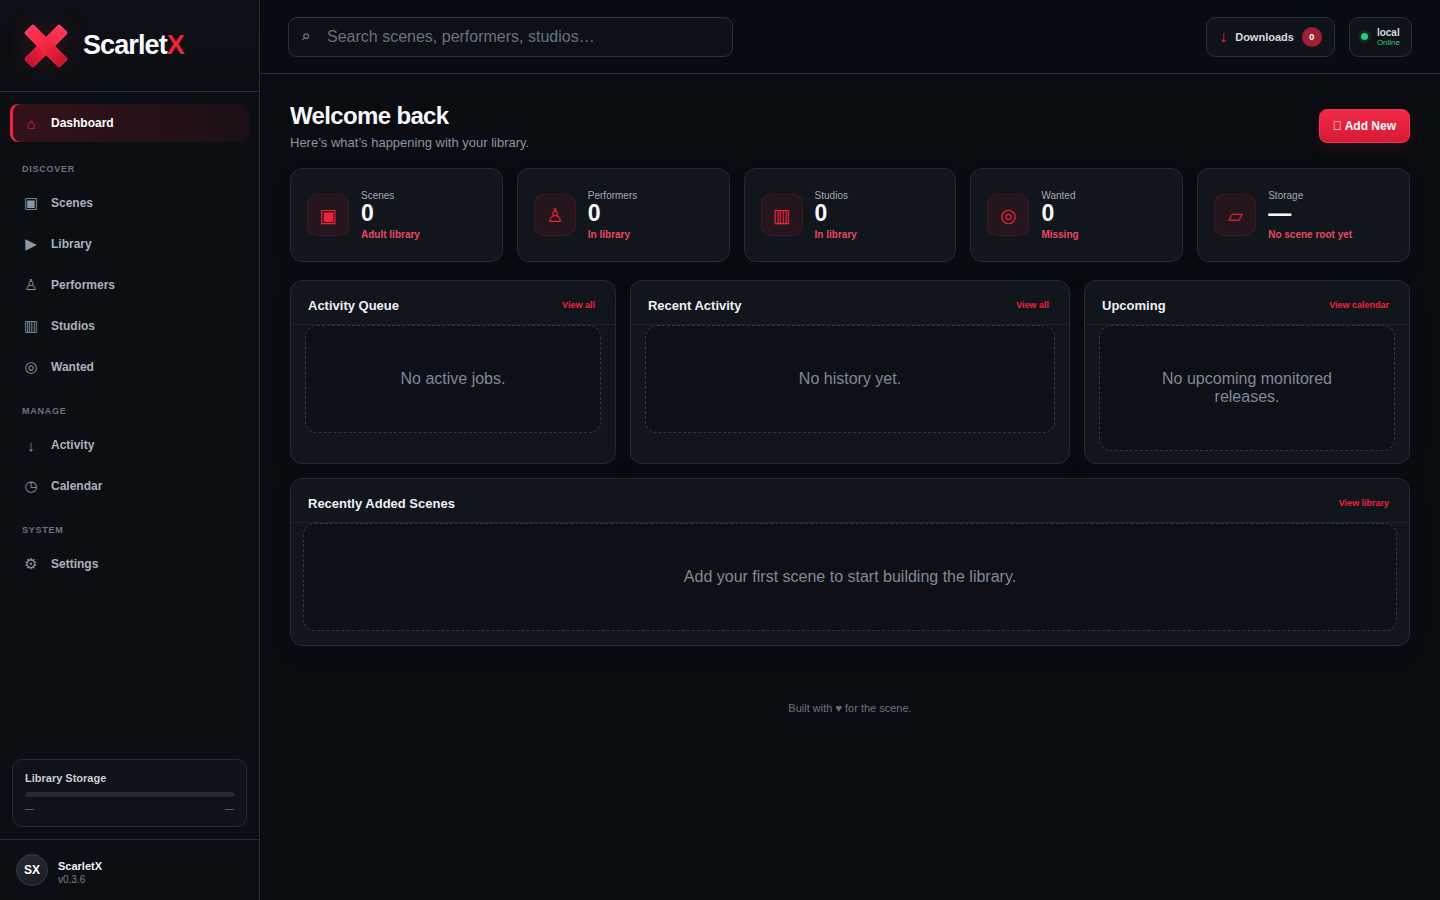
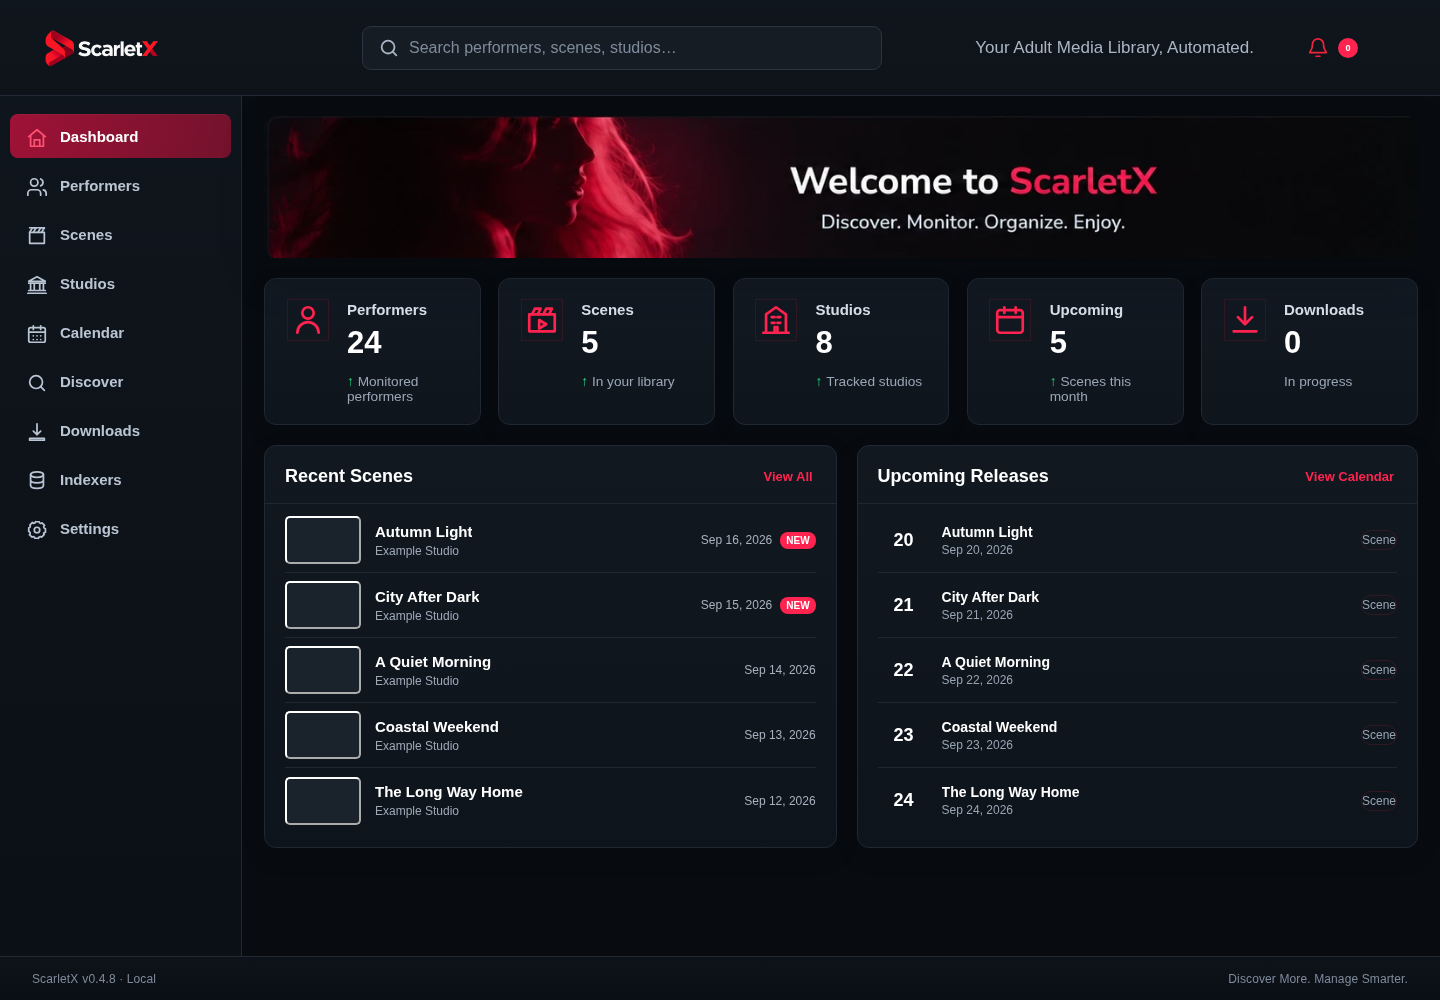
fix: keep dashboard rows aligned and refresh README screenshots (#153)

diff --git a/frontend/app.js b/frontend/app.js
@@ -64,7 +64,7 @@ const dashboardIcons = {
     if (!rows.length) return `<div class="row"><div class="rowicon">—</div><div><b>No upcoming releases</b><small>Monitored release dates will appear here.</small></div></div>`;
     return rows.slice(0, 5).map(item => {
       const day = String(item.date || '').slice(8, 10).replace(/^0/, '') || '—';
-      return `<div class="row"><div class="rowicon">${esc(day)}</div><div><b>${esc(item.title || 'Upcoming scene')}</b><small>${fmtDate(item.date)}</small></div><span class="badge soft">Scene</span></div>`;
+      return `<div class="row"><div class="rowicon">${esc(day)}</div><div><b title="${esc(item.title || 'Upcoming scene')}">${esc(item.title || 'Upcoming scene')}</b><small>${fmtDate(item.date)}</small></div><span class="badge soft">Scene</span></div>`;
     }).join('');
   }
 

diff --git a/frontend/dashboard_cleanup.css b/frontend/dashboard_cleanup.css
@@ -49,9 +49,21 @@ body[data-layout="approved-dashboard-v1"] .approved-upcoming .rows{
 
 body[data-layout="approved-dashboard-v1"] .approved-recent-row,
 body[data-layout="approved-dashboard-v1"] .approved-upcoming .row{
-  min-height:64px!important;
+  min-height:65px!important;
+  height:65px!important;
   padding:8px 0!important;
   box-sizing:border-box!important;
+}
+
+/* Match Recent Scenes: long titles must not grow the Upcoming row track. */
+body[data-layout="approved-dashboard-v1"] .approved-upcoming .row > div:nth-child(2){
+  min-width:0;
+}
+
+body[data-layout="approved-dashboard-v1"] .approved-upcoming .row b{
+  white-space:nowrap;
+  overflow:hidden;
+  text-overflow:ellipsis;
 }
 
 /* Keep the five desktop summary cards fluid until the existing tablet breakpoint. */

diff --git a/tests/test_locked_dashboard_layout.py b/tests/test_locked_dashboard_layout.py
@@ -113,7 +113,7 @@ def test_dashboard_recent_and_upcoming_rows_share_vertical_rhythm():
     scope = 'body[data-layout="approved-dashboard-v1"]'
 
     assert f'{scope}.approved-recent-list,{scope}.approved-upcoming.rows{{padding:4px20px14px!important;' in cleanup
-    assert f'{scope}.approved-recent-row,{scope}.approved-upcoming.row{{min-height:64px!important;padding:8px0!important;box-sizing:border-box!important;' in cleanup
+    assert f'{scope}.approved-recent-row,{scope}.approved-upcoming.row{{min-height:65px!important;height:65px!important;padding:8px0!important;box-sizing:border-box!important;' in cleanup
 
 
 def test_approved_banner_source_reconstructs_to_locked_bytes():

diff --git a/README.md b/README.md
@@ -15,7 +15,13 @@ It combines metadata management, automated acquisition, a built-in download work
 
 The current ScarletX interface uses a permanent dark charcoal theme with scarlet accents and a simplified Scarlet X identity.
 
+Screenshots of the current interface with fictional sample data and artwork omitted.
+
+**Dashboard — Recent Scenes and Upcoming Releases share aligned rows.**
+
 ![ScarletX dashboard](docs/images/scarletx-dashboard.png)
+
+**Scenes — library, monitoring status, and playback actions.**
 
 ![ScarletX scenes library](docs/images/scarletx-scenes.png)
 
@@ -145,11 +151,22 @@ python -m pytest -q
 
 GitHub Actions runs the test suite and source-compilation check on Python 3.11, 3.12, and 3.13.
 
-Stable releases are created with the manual `Release ScarletX` GitHub Actions workflow. The release helper enforces the `0.3.x` series and increments only the third component (the number after the second dot); it never changes the `0.3` portion. Adding or changing the workflow does not create a release; a release occurs only when the workflow is manually dispatched with release notes.
+Stable releases are created with the manual `Release ScarletX` GitHub Actions workflow. The release helper enforces the `0.4.x` series and currently locks releases at `0.4.8`. Advancing to a new version requires deliberately updating that lock; published stable tags are immutable. Adding or changing the workflow does not create a release; a release occurs only when the workflow is manually dispatched with release notes.
 
 Current application version: **0.4.8**.
 
-See `RELEASE-NOTES-0.4.8.md` for the current release summary.
+See [RELEASE-NOTES-0.4.8.md](RELEASE-NOTES-0.4.8.md) for the current release summary. Main-branch changes after that release are available in the matching `:main` container images.
+
+To run the browser layout checks or regenerate the screenshots with fictional fixtures:
+
+```bash
+npm ci --prefix tools/browser
+npx --prefix tools/browser playwright install chromium
+npm test --prefix tools/browser
+npm run screenshots --prefix tools/browser
+```
+
+The browser check loads the real frontend with isolated API fixtures and measures panel and row alignment at desktop, tablet, and mobile widths, including long titles, empty lists, and unequal item counts. No running server or personal library is required.
 
 ## Legal Disclaimer
 
